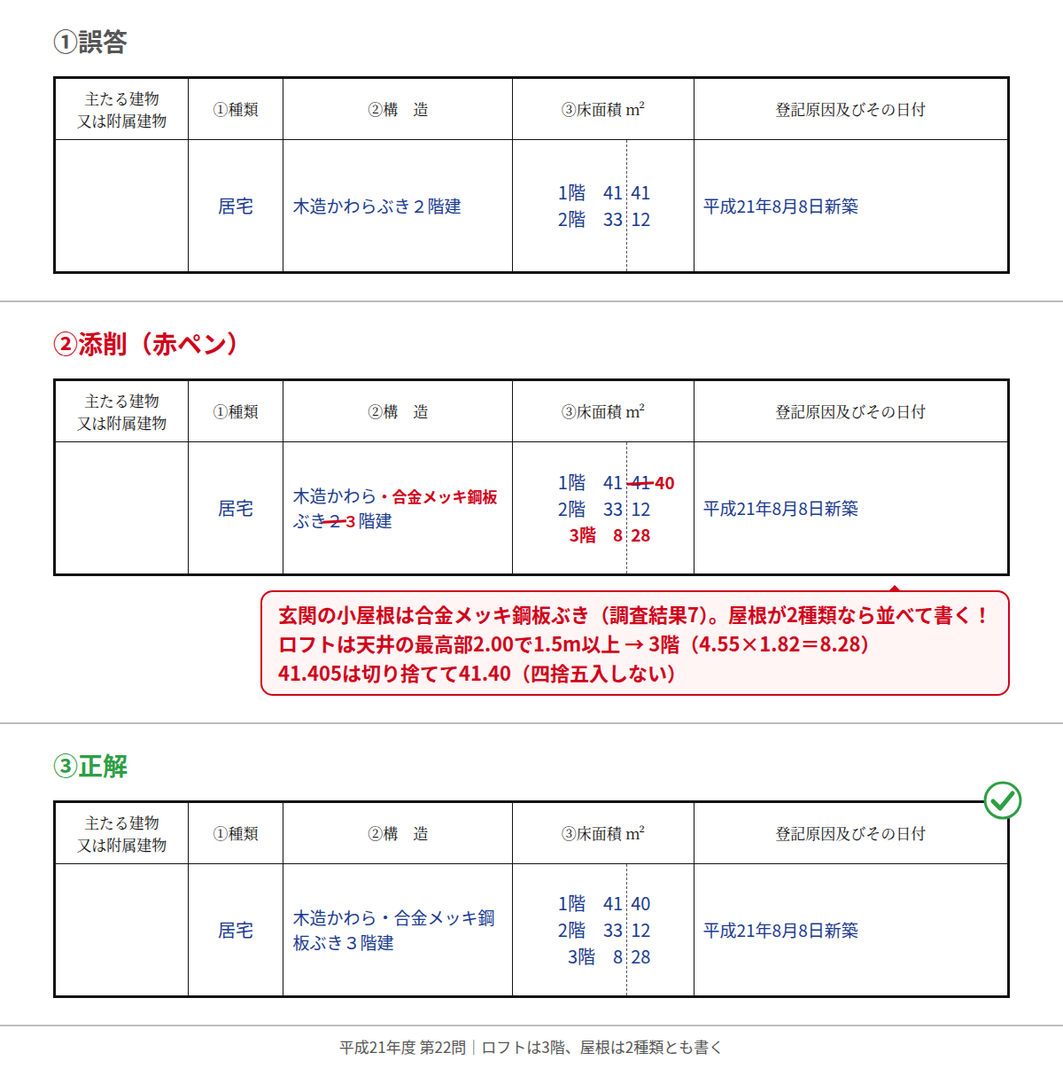
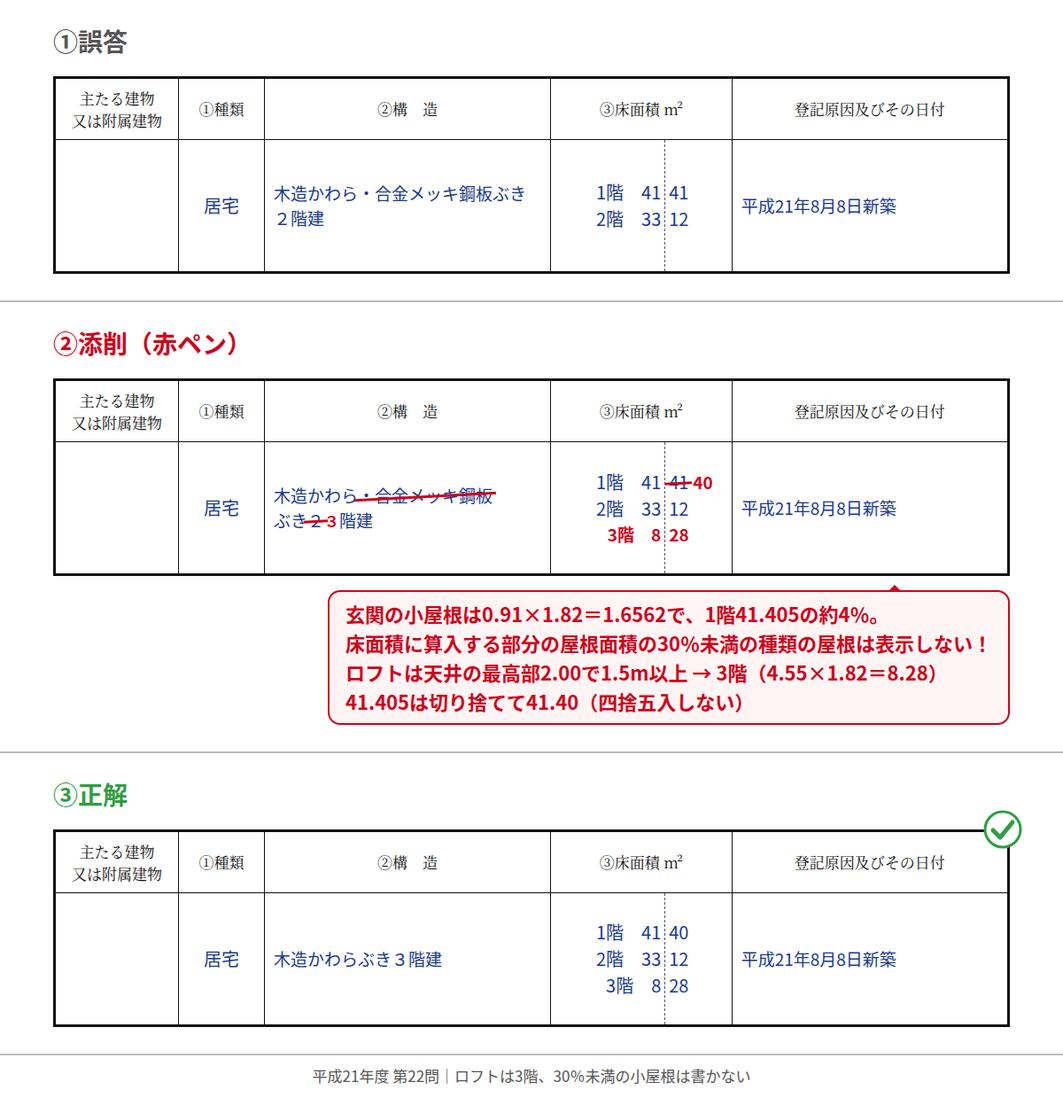
記述式 平成21年度第22問：構造を解答例どおり「木造かわらぶき3階建」に改める
- 床面積に算入する部分の屋根面積の30％未満の種類の屋根は表示しない（昭和63年3月24日民三第1826号。
  択一式の平成25年度第12問・平成29年度第16問で出題）。玄関の小屋根は約4％なので表示しない
- 記事の第4章・まとめ、申請書の完成形・添削画像・解く順番の図、各プロンプト、照合スクリプト（NG 0件）を修正
- 執筆プロンプト・チェックリスト（改善記録）・依頼文・README・CLAUDE.md を更新

Claude-Session: https://claude.ai/code/session_011EfeSfKHoPkxUKHM5aryyy

diff --git a/note-articles-Kijyutsu/H21/Q22/zu/H21_dai22mon_toukishinseisho_machigai.html b/note-articles-Kijyutsu/H21/Q22/zu/H21_dai22mon_toukishinseisho_machigai.html
@@ -42,7 +42,7 @@ table.toi2 td.h { height: 56px; font-size: 20px; }
 .ptitle { font-family: "Noto Sans CJK JP", "IPAGothic", sans-serif; font-size: 28px; font-weight: bold;
            margin-bottom: 20px; }
 .ptitle.ng { color: #555; } .ptitle.fix { color: #d0021b; } .ptitle.ok { color: #2e9e44; }
-.strike { position: relative; }
+.strike { position: relative; white-space: nowrap; }
 .strike::after { content: ""; position: absolute; left: -4px; right: -4px; top: 52%; border-top: 3px solid #d0021b;
                   transform: rotate(-3deg); }
 .red { color: #d0021b; font-family: "Noto Sans CJK JP", "IPAGothic", sans-serif; font-weight: bold; }
@@ -57,7 +57,7 @@ table.toi2 td.h { height: 56px; font-size: 20px; }
 .okwrap { position: relative; }
 .check { position: absolute; right: -14px; top: -22px; }
 </style></head><body>
-<div class="panel"><div class="ptitle ng">①誤答</div><div class="okwrap"><table class="bldg"><colgroup><col style="width:14%"><col style="width:10%"><col style="width:24%"><col style="width:12%"><col style="width:7%"><col style="width:33%"></colgroup><tr><td class="head lab2">主たる建物<br>又は附属建物</td><td class="head">①種類</td><td class="head">②構　造</td><td class="head" colspan="2">③床面積 m²</td><td class="head">登記原因及びその日付</td></tr><tr><td class="entry lab2"></td><td class="entry center"><span class="ink">居宅</span></td><td class="entry struct"><span class="ink">木造かわらぶき２階建</span></td><td class="entry int"><span class="ink">1階　41</span><br><span class="ink">2階　33</span></td><td class="entry dec"><span class="ink">41</span><br><span class="ink">12</span></td><td class="entry genin"><span class="ink">平成21年8月8日新築</span></td></tr></table></div></div>
-<div class="panel"><div class="ptitle fix">②添削（赤ペン）</div><div class="okwrap"><table class="bldg"><colgroup><col style="width:14%"><col style="width:10%"><col style="width:24%"><col style="width:12%"><col style="width:7%"><col style="width:33%"></colgroup><tr><td class="head lab2">主たる建物<br>又は附属建物</td><td class="head">①種類</td><td class="head">②構　造</td><td class="head" colspan="2">③床面積 m²</td><td class="head">登記原因及びその日付</td></tr><tr><td class="entry lab2"></td><td class="entry center"><span class="ink">居宅</span></td><td class="entry struct"><span class="ink">木造かわら</span><span class="red">・合金メッキ鋼板</span><span class="ink">ぶき</span><span class="ink strike">２</span><span class="red">３</span><span class="ink">階建</span></td><td class="entry int"><span class="ink">1階　41</span><br><span class="ink">2階　33</span><br><span class="red">3階　8</span></td><td class="entry dec"><span class="ink strike">41</span> <span class="red">40</span><br><span class="ink">12</span><br><span class="red">28</span></td><td class="entry genin"><span class="ink">平成21年8月8日新築</span></td></tr></table></div><div class="bubrow"><span class="bubble">玄関の小屋根は合金メッキ鋼板ぶき（調査結果7）。屋根が2種類なら並べて書く！<br>ロフトは天井の最高部2.00で1.5m以上 → 3階（4.55×1.82＝8.28）<br>41.405は切り捨てて41.40（四捨五入しない）</span></div></div>
-<div class="panel"><div class="ptitle ok">③正解</div><div class="okwrap"><table class="bldg" class="good"><colgroup><col style="width:14%"><col style="width:10%"><col style="width:24%"><col style="width:12%"><col style="width:7%"><col style="width:33%"></colgroup><tr><td class="head lab2">主たる建物<br>又は附属建物</td><td class="head">①種類</td><td class="head">②構　造</td><td class="head" colspan="2">③床面積 m²</td><td class="head">登記原因及びその日付</td></tr><tr><td class="entry lab2"></td><td class="entry center"><span class="ink">居宅</span></td><td class="entry struct"><span class="ink">木造かわら・合金メッキ鋼板ぶき３階建</span></td><td class="entry int"><span class="ink">1階　41</span><br><span class="ink">2階　33</span><br><span class="ink">3階　8</span></td><td class="entry dec"><span class="ink">40</span><br><span class="ink">12</span><br><span class="ink">28</span></td><td class="entry genin"><span class="ink">平成21年8月8日新築</span></td></tr></table><svg class="check" width="44" height="44" viewBox="0 0 44 44"><circle cx="22" cy="22" r="20" fill="#fff" stroke="#2e9e44" stroke-width="3"/><path d="M11 23 L19 31 L33 14" fill="none" stroke="#2e9e44" stroke-width="5" stroke-linecap="round" stroke-linejoin="round"/></svg></div></div>
-<div class="caption" style="margin:10px 0 30px">平成21年度 第22問｜ロフトは3階、屋根は2種類とも書く</div></body></html>
+<div class="panel"><div class="ptitle ng">①誤答</div><div class="okwrap"><table class="bldg"><colgroup><col style="width:13%"><col style="width:9%"><col style="width:30%"><col style="width:12%"><col style="width:7%"><col style="width:29%"></colgroup><tr><td class="head lab2">主たる建物<br>又は附属建物</td><td class="head">①種類</td><td class="head">②構　造</td><td class="head" colspan="2">③床面積 m²</td><td class="head">登記原因及びその日付</td></tr><tr><td class="entry lab2"></td><td class="entry center"><span class="ink">居宅</span></td><td class="entry struct"><span class="ink">木造かわら・合金メッキ鋼板ぶき２階建</span></td><td class="entry int"><span class="ink">1階　41</span><br><span class="ink">2階　33</span></td><td class="entry dec"><span class="ink">41</span><br><span class="ink">12</span></td><td class="entry genin"><span class="ink">平成21年8月8日新築</span></td></tr></table></div></div>
+<div class="panel"><div class="ptitle fix">②添削（赤ペン）</div><div class="okwrap"><table class="bldg"><colgroup><col style="width:13%"><col style="width:9%"><col style="width:30%"><col style="width:12%"><col style="width:7%"><col style="width:29%"></colgroup><tr><td class="head lab2">主たる建物<br>又は附属建物</td><td class="head">①種類</td><td class="head">②構　造</td><td class="head" colspan="2">③床面積 m²</td><td class="head">登記原因及びその日付</td></tr><tr><td class="entry lab2"></td><td class="entry center"><span class="ink">居宅</span></td><td class="entry struct"><span class="ink">木造かわら</span><span class="ink strike">・合金メッキ鋼板</span><br><span class="ink">ぶき</span><span class="ink strike">２</span><span class="red">３</span><span class="ink">階建</span></td><td class="entry int"><span class="ink">1階　41</span><br><span class="ink">2階　33</span><br><span class="red">3階　8</span></td><td class="entry dec"><span class="ink strike">41</span> <span class="red">40</span><br><span class="ink">12</span><br><span class="red">28</span></td><td class="entry genin"><span class="ink">平成21年8月8日新築</span></td></tr></table></div><div class="bubrow"><span class="bubble">玄関の小屋根は0.91×1.82＝1.6562で、1階41.405の約4％。<br>床面積に算入する部分の屋根面積の30％未満の種類の屋根は表示しない！<br>ロフトは天井の最高部2.00で1.5m以上 → 3階（4.55×1.82＝8.28）<br>41.405は切り捨てて41.40（四捨五入しない）</span></div></div>
+<div class="panel"><div class="ptitle ok">③正解</div><div class="okwrap"><table class="bldg" class="good"><colgroup><col style="width:13%"><col style="width:9%"><col style="width:30%"><col style="width:12%"><col style="width:7%"><col style="width:29%"></colgroup><tr><td class="head lab2">主たる建物<br>又は附属建物</td><td class="head">①種類</td><td class="head">②構　造</td><td class="head" colspan="2">③床面積 m²</td><td class="head">登記原因及びその日付</td></tr><tr><td class="entry lab2"></td><td class="entry center"><span class="ink">居宅</span></td><td class="entry struct"><span class="ink">木造かわらぶき３階建</span></td><td class="entry int"><span class="ink">1階　41</span><br><span class="ink">2階　33</span><br><span class="ink">3階　8</span></td><td class="entry dec"><span class="ink">40</span><br><span class="ink">12</span><br><span class="ink">28</span></td><td class="entry genin"><span class="ink">平成21年8月8日新築</span></td></tr></table><svg class="check" width="44" height="44" viewBox="0 0 44 44"><circle cx="22" cy="22" r="20" fill="#fff" stroke="#2e9e44" stroke-width="3"/><path d="M11 23 L19 31 L33 14" fill="none" stroke="#2e9e44" stroke-width="5" stroke-linecap="round" stroke-linejoin="round"/></svg></div></div>
+<div class="caption" style="margin:10px 0 30px">平成21年度 第22問｜ロフトは3階、30％未満の小屋根は書かない</div></body></html>

diff --git a/note-articles-Kijyutsu/H21/Q22/zu/H21_dai22mon_toukishinseisho_kansei.html b/note-articles-Kijyutsu/H21/Q22/zu/H21_dai22mon_toukishinseisho_kansei.html
@@ -42,7 +42,7 @@ table.toi2 td.h { height: 56px; font-size: 20px; }
 .ptitle { font-family: "Noto Sans CJK JP", "IPAGothic", sans-serif; font-size: 28px; font-weight: bold;
            margin-bottom: 20px; }
 .ptitle.ng { color: #555; } .ptitle.fix { color: #d0021b; } .ptitle.ok { color: #2e9e44; }
-.strike { position: relative; }
+.strike { position: relative; white-space: nowrap; }
 .strike::after { content: ""; position: absolute; left: -4px; right: -4px; top: 52%; border-top: 3px solid #d0021b;
                   transform: rotate(-3deg); }
 .red { color: #d0021b; font-family: "Noto Sans CJK JP", "IPAGothic", sans-serif; font-weight: bold; }
@@ -64,7 +64,7 @@ table.toi2 td.h { height: 56px; font-size: 20px; }
 <div class="row"><div class="lab">申　　請　　人</div><div class="box" style="height:62px"><span class="ink">Ａ市Ｂ町二丁目３番地４　土野一郎</span></div></div>
 <div class="row"><div class="lab">代　　理　　人</div><div class="box" style="height:62px"><span class="ink">Ａ市Ｃ町五丁目６番地７　家野二郎</span></div><div class="stamp">印</div></div>
 <div class="tel">（連絡先電話番号　　略　　）</div>
-<table class="bldg"><colgroup><col style="width:5%"><col style="width:13%"><col style="width:9%"><col style="width:22%"><col style="width:12%"><col style="width:7%"><col style="width:32%"></colgroup><tr><td class="lab2 val" colspan="2">不動産番号</td><td class="val" colspan="5"></td></tr><tr><td class="vert" rowspan="8">建物の表示</td><td class="lab2" rowspan="2">所　在</td><td class="val" colspan="5"><span class="ink">Ａ市Ｂ町二丁目３番地４</span></td></tr><tr><td class="val" colspan="5"></td></tr><tr><td class="lab2 val">家屋番号</td><td class="val center" colspan="2">（記載不要）</td><td class="val" colspan="3"></td></tr><tr><td class="head lab2">主たる建物<br>又は附属建物</td><td class="head">①種類</td><td class="head">②構　造</td><td class="head" colspan="2">③床面積 m²</td><td class="head">登記原因及びその日付</td></tr><tr><td class="entry lab2"></td><td class="entry center"><span class="ink">居宅</span></td><td class="entry struct"><span class="ink">木造かわら・合金メッキ鋼板ぶき３階建</span></td><td class="entry int"><span class="ink">1階　41</span><br><span class="ink">2階　33</span><br><span class="ink">3階　8</span></td><td class="entry dec"><span class="ink">40</span><br><span class="ink">12</span><br><span class="ink">28</span></td><td class="entry genin"><span class="ink">平成21年8月8日新築</span></td></tr><tr><td class="entry lab2"></td><td class="entry center"></td><td class="entry struct"></td><td class="entry int"></td><td class="entry dec"></td><td class="entry genin"></td></tr><tr><td class="entry lab2"></td><td class="entry center"></td><td class="entry struct"></td><td class="entry int"></td><td class="entry dec"></td><td class="entry genin"></td></tr><tr><td class="wide" colspan="6"></td></tr></table>
+<table class="bldg"><colgroup><col style="width:5%"><col style="width:13%"><col style="width:9%"><col style="width:22%"><col style="width:12%"><col style="width:7%"><col style="width:32%"></colgroup><tr><td class="lab2 val" colspan="2">不動産番号</td><td class="val" colspan="5"></td></tr><tr><td class="vert" rowspan="8">建物の表示</td><td class="lab2" rowspan="2">所　在</td><td class="val" colspan="5"><span class="ink">Ａ市Ｂ町二丁目３番地４</span></td></tr><tr><td class="val" colspan="5"></td></tr><tr><td class="lab2 val">家屋番号</td><td class="val center" colspan="2">（記載不要）</td><td class="val" colspan="3"></td></tr><tr><td class="head lab2">主たる建物<br>又は附属建物</td><td class="head">①種類</td><td class="head">②構　造</td><td class="head" colspan="2">③床面積 m²</td><td class="head">登記原因及びその日付</td></tr><tr><td class="entry lab2"></td><td class="entry center"><span class="ink">居宅</span></td><td class="entry struct"><span class="ink">木造かわらぶき３階建</span></td><td class="entry int"><span class="ink">1階　41</span><br><span class="ink">2階　33</span><br><span class="ink">3階　8</span></td><td class="entry dec"><span class="ink">40</span><br><span class="ink">12</span><br><span class="ink">28</span></td><td class="entry genin"><span class="ink">平成21年8月8日新築</span></td></tr><tr><td class="entry lab2"></td><td class="entry center"></td><td class="entry struct"></td><td class="entry int"></td><td class="entry dec"></td><td class="entry genin"></td></tr><tr><td class="entry lab2"></td><td class="entry center"></td><td class="entry struct"></td><td class="entry int"></td><td class="entry dec"></td><td class="entry genin"></td></tr><tr><td class="wide" colspan="6"></td></tr></table>
 <div class="shokuin"><div class="sbox"><span class="ink">土地家屋調査士　家野二郎</span></div><div class="sin">職印</div></div>
 <div class="caption">平成21年度 土地家屋調査士試験 第22問 問1 登記申請書 解答例</div>
 </div></body></html>

diff --git a/note-articles-Kijyutsu/H21/Q22/zu/H21_dai22mon_toukishinseisho_kansei_toi2.html b/note-articles-Kijyutsu/H21/Q22/zu/H21_dai22mon_toukishinseisho_kansei_toi2.html
@@ -42,7 +42,7 @@ table.toi2 td.h { height: 56px; font-size: 20px; }
 .ptitle { font-family: "Noto Sans CJK JP", "IPAGothic", sans-serif; font-size: 28px; font-weight: bold;
            margin-bottom: 20px; }
 .ptitle.ng { color: #555; } .ptitle.fix { color: #d0021b; } .ptitle.ok { color: #2e9e44; }
-.strike { position: relative; }
+.strike { position: relative; white-space: nowrap; }
 .strike::after { content: ""; position: absolute; left: -4px; right: -4px; top: 52%; border-top: 3px solid #d0021b;
                   transform: rotate(-3deg); }
 .red { color: #d0021b; font-family: "Noto Sans CJK JP", "IPAGothic", sans-serif; font-weight: bold; }

diff --git a/note-articles-Kijyutsu/H21/Q22/verify_H21_dai22mon.py b/note-articles-Kijyutsu/H21/Q22/verify_H21_dai22mon.py
@@ -2,8 +2,9 @@
 アガルートの解答例（第22問 解答例：問1の登記申請書・問2・問3の各階平面図と建物図面）と照合した。
 アガルートの過去問集の再掲は日付を平成30年に置き換え、答案用紙の見出しを「主である建物」に変えていた（下の対応表）ので、
 日付と欄の名前は試験問題の本文と試験の答案用紙に合わせている。
-食い違いは構造の1か所だけ（アガルート「木造かわらぶき3階建」、記事「木造かわら・合金メッキ鋼板ぶき3階建」。
-不動産登記事務取扱手続準則第81条第2項と調査結果7の材質の指定による。下の「解答例との食い違い」）。
+構造は、ユーザーの指示（2026-09-30）で解答例どおり「木造かわらぶき3階建」とした（床面積に算入する部分の屋根面積の
+30％未満の種類の屋根は表示しない。昭和63年3月24日民三第1826号。択一式の平成25年度第12問・平成29年度第16問で出題）。
+解答例との食い違いはない。
 実行: python3 note-articles-Kijyutsu/H21/Q22/verify_H21_dai22mon.py"""
 import math
 import os
@@ -67,7 +68,7 @@ AGAROOT = {
     '代理人': '代理人は『A市C町五丁目6番地7　家野二郎』',
     '所在': '所在は『A市B町二丁目3番地4』',
     '家屋番号': '家屋番号は『（記載不要）』と印刷済み',
-    '種類・床面積': '種類『居宅』、構造『木造かわら・合金メッキ鋼板ぶき3階建』、床面積は『1階　41.40』『2階　33.12』『3階　8.28』',
+    '種類・床面積': '種類『居宅』、構造『木造かわらぶき3階建』、床面積は『1階　41.40』『2階　33.12』『3階　8.28』',
     '原因': '『平成21年8月8日新築』です',
     '欄外': '『土地家屋調査士　家野二郎』と書きます',
     '問2 確認済証': '- 建築基準法第6条の確認があったことを証する書面（確認済証）',
@@ -85,13 +86,19 @@ AGAROOT = {
 }
 for k, s_ in AGAROOT.items():
     check('解答例と一致：' + k, s_)
-# 解答例との食い違い（構造）：アガルートは「木造かわらぶき3階建」（床面積に算入する部分の屋根面積の30%未満の屋根は表示しないという説明）。
-# 記事は準則第81条第2項（屋根の種類が異なる場合は並べて表示）と調査結果7の材質の指定（合金メッキ鋼板＝準則第81条第1項の区分）により
-# 「木造かわら・合金メッキ鋼板ぶき3階建」を採用。記事では予備校の答えを誤りと断定しない。
-check('構造（記事の採用）', '大屋根が先で、『木造かわら・合金メッキ鋼板ぶき3階建』です')
-check('構造の根拠（準則81条2項）', '（準則第81条第2項）')
-check('構造の根拠（準則81条1項の合金メッキ鋼板ぶき）', '準則第81条第1項が区分を足していて、その中に『合金メッキ鋼板ぶき』がある')
-check('小さい屋根を省く答え方への言及（断定しない）', '小さい屋根は構造に書かないで済ませる答え方を見かけることもあるけど')
+# 構造：屋根の種類が2種類以上ある建物は、床面積に算入する部分の屋根面積の30％未満の種類の屋根を表示しない
+# （昭和63年3月24日民三第1826号。択一式の H25/Q12・H29/Q16 で出題）。玄関の小屋根は約4％なので「木造かわらぶき3階建」（解答例と一致）。
+check('構造（解答例と一致）', '構造は『木造かわらぶき3階建』です」')
+check('30％の先例', '30％未満の種類の屋根は構造に表示しないの（昭和63年3月24日民三第1826号）')
+check('択一式の出題', '平成25年度第12問（基準は10％ではなく30％）と平成29年度第16問（65％と35％なら両方書く）')
+check('小屋根の割合', '1.6562 ÷ 41.405 で約4％')
+ratio = 0.91 * 1.82 / (6.37 * 1.82 + 5.46 * 5.46)
+truth(f'玄関の小屋根の割合 {ratio:.4f}（約4％、30％未満）', round(ratio * 100) == 4 and ratio < 0.30)
+absent('旧版の説明（小さい屋根を省く答え方を否定）', '小さい屋根は構造に書かないで済ませる')
+absent('旧版の構造', '大屋根が先で、『木造かわら・合金メッキ鋼板ぶき3階建』です')
+check('並べて書く誤答（藍子）', '構造は『木造かわら・合金メッキ鋼板ぶき3階建』です！')
+check('区分名（準則81条1項）', '準則第81条第1項の区分にある『合金メッキ鋼板ぶき』ですね')
+check('並べて書く規定（準則81条2項）', '（準則第81条第2項）')
 truth('「アガルート」は冒頭の照合済みの一文だけ', text.count('アガルート') == 1)
 absent('予備校の誤りの断定', '予備校')
 
@@ -143,8 +150,7 @@ truth('東の端（4.55）も1.20', round(2.00 - slope * (4.55 - 2.73), 2) == 1.
 
 # ---- 構造・問1 ----
 check('通し柱から木造', '平面図に通し柱の記号が並んでいるから、構造は木造と判断できるわ')
-check('屋根1種類の誤答（藍子）', '構造は『木造かわらぶき3階建』です！')
-check('亜鉛メッキ鋼板との対比', '規則第114条の『亜鉛メッキ鋼板ぶき』ですか？')
+check('亜鉛メッキ鋼板との対比', '規則第114条の『亜鉛メッキ鋼板ぶき』……じゃなくて')
 check('添付の根拠', '（不動産登記令別表12の項添付情報欄イ〜ニ）')
 check('代理権限', '（同令第7条第1項第2号）')
 check('登録免許税', '建物の表題登記はそこに載っていないので、納めなくていいんです')
@@ -162,13 +168,13 @@ check('1階の位置の点線', '（準則第53条）')
 for s_ in ['**登記の目的**：建物表題登記', '**添付書類**：建物図面　各階平面図　所有権証明書　住所証明書　代理権限証書',
            '**申請人**：Ａ市Ｂ町二丁目３番地４　土野一郎', '**代理人**：Ａ市Ｃ町五丁目６番地７　家野二郎',
            '平成21年8月23日　申請　Ｄ地方法務局Ｂ出張所', '1段目「Ａ市Ｂ町二丁目３番地４」',
-           '②構造「木造かわら・合金メッキ鋼板ぶき３階建」', '③床面積「1階　41｜40」「2階　33｜12」「3階　8｜28」',
+           '②構造「木造かわらぶき３階建」', '③床面積「1階　41｜40」「2階　33｜12」「3階　8｜28」',
            '登記原因及びその日付「平成21年8月8日新築」', '**表の下の枠**：土地家屋調査士　家野二郎',
            '**登録免許税**：欄がないので書かない', '3. 株式会社建倉工務店が作成した工事完了引渡証明書（同社の印鑑証明書付き）']:
     check('申請書の記入データ', s_, form, '申請書')
-check('誤答', '②構造：「木造かわらぶき２階建」', fix, '添削')
+check('誤答', '②構造：「木造かわら・合金メッキ鋼板ぶき２階建」', fix, '添削')
 check('誤答', '「1階　41｜41」', fix, '添削')
-check('正解', '②構造「木造かわら・合金メッキ鋼板ぶき３階建」／③床面積「1階　41｜40」「2階　33｜12」「3階　8｜28」', fix, '添削')
+check('正解', '②構造「木造かわらぶき３階建」／③床面積「1階　41｜40」「2階　33｜12」「3階　8｜28」', fix, '添削')
 check('縦に積む', '横1200pxの縦長の1枚の画像に、上から「①誤答」「②添削（赤ペン）」「③正解」の3コマ', fix, '添削')
 
 # ---- 解説図プロンプトの頂点座標（面積が求積表と一致すること） ----
@@ -274,14 +280,14 @@ def html_has(name, *needles, bad=()):
 html_has('H21_dai22mon_toukishinseisho_kansei', '建物表題登記', '建物図面　各階平面図　所有権証明書　住所証明書　代理権限証書',
          '平成21年8月23日', 'Ｄ地方法務局Ｂ出張所', 'Ａ市Ｂ町二丁目３番地４　土野一郎', 'Ａ市Ｃ町五丁目６番地７　家野二郎',
          '（連絡先電話番号', '不動産番号', '建物の表示', '（記載不要）', '主たる建物<br>又は附属建物', '居宅',
-         '木造かわら・合金メッキ鋼板ぶき３階建', '1階　41', '>40<', '2階　33', '>12<', '3階　8', '>28<', '平成21年8月8日新築',
+         '木造かわらぶき３階建', '1階　41', '>40<', '2階　33', '>12<', '3階　8', '>28<', '平成21年8月8日新築',
          '土地家屋調査士　家野二郎', '職印',
-         bad=('登録免許税', '平成30年', '主である建物', '>41<', '会社法人等番号', '（略）'))
+         bad=('登録免許税', '平成30年', '主である建物', '>41<', '会社法人等番号', '（略）', '合金メッキ鋼板'))
 html_has('H21_dai22mon_toukishinseisho_kansei_toi2', '所有権を有することを証する情報として添付する具体的書面（情報）の例',
          '建築基準法第6条の確認があったことを証する書面（確認済証）', '建築基準法第7条の検査があったことを証する書面（検査済証）',
          '株式会社建倉工務店が作成した工事完了引渡証明書（同社の印鑑証明書付き）', bad=('丸田電気', '中山設備', '建倉進'))
-html_has('H21_dai22mon_toukishinseisho_machigai', '①誤答', '②添削（赤ペン）', '③正解', '木造かわらぶき２階建', '・合金メッキ鋼板',
-         '3階　8', '41.405は切り捨てて41.40')
+html_has('H21_dai22mon_toukishinseisho_machigai', '①誤答', '②添削（赤ペン）', '③正解', '木造かわら・合金メッキ鋼板ぶき２階建', '・合金メッキ鋼板</span>',
+         '3階　8', '41.405は切り捨てて41.40', '30％未満の種類の屋根は表示しない', '木造かわらぶき３階建')
 drw = open(os.path.join(ZU, 'draw_H21_dai22mon_kaisetsuzu.py'), encoding='utf-8').read()
 fits = []
 for m in re.finditer(r'\bfit\(', drw):

diff --git a/note-articles-Kijyutsu/H21/Q22/zu/make_H21_dai22mon_shinseisho_gazou.py b/note-articles-Kijyutsu/H21/Q22/zu/make_H21_dai22mon_shinseisho_gazou.py
@@ -67,7 +67,7 @@ table.toi2 td.h {{ height: 56px; font-size: 20px; }}
 .ptitle {{ font-family: "Noto Sans CJK JP", "IPAGothic", sans-serif; font-size: 28px; font-weight: bold;
            margin-bottom: 20px; }}
 .ptitle.ng {{ color: #555; }} .ptitle.fix {{ color: {RED}; }} .ptitle.ok {{ color: {GREEN}; }}
-.strike {{ position: relative; }}
+.strike {{ position: relative; white-space: nowrap; }}
 .strike::after {{ content: ""; position: absolute; left: -4px; right: -4px; top: 52%; border-top: 3px solid {RED};
                   transform: rotate(-3deg); }}
 .red {{ color: {RED}; font-family: "Noto Sans CJK JP", "IPAGothic", sans-serif; font-weight: bold; }}
@@ -93,8 +93,8 @@ COLS = ('<colgroup><col style="width:5%"><col style="width:13%"><col style="widt
 HEAD = ('<td class="head lab2">主たる建物<br>又は附属建物</td><td class="head">①種類</td>'
         '<td class="head">②構　造</td><td class="head" colspan="2">③床面積 m²</td>'
         '<td class="head">登記原因及びその日付</td>')
-COLS_SNIP = ('<colgroup><col style="width:14%"><col style="width:10%"><col style="width:24%">'
-             '<col style="width:12%"><col style="width:7%"><col style="width:33%"></colgroup>')
+COLS_SNIP = ('<colgroup><col style="width:13%"><col style="width:9%"><col style="width:30%">'
+             '<col style="width:12%"><col style="width:7%"><col style="width:29%"></colgroup>')
 
 
 def ink(s):
@@ -121,7 +121,7 @@ def entry_cells(label, kind, struct, floors, genin):
 
 
 SHOZAI = 'Ａ市Ｂ町二丁目３番地４'
-KOUZOU = '木造かわら・合金メッキ鋼板ぶき３階建'
+KOUZOU = '木造かわらぶき３階建'
 FLOORS = [('1階', '41', '40'), ('2階', '33', '12'), ('3階', '8', '28')]
 GENIN = '平成21年8月8日新築'
 
@@ -167,16 +167,18 @@ def snippet(cells, good=False):
     return f'<div class="okwrap"><table class="bldg"{g}>{COLS_SNIP}<tr>{head}</tr><tr>{cells}</tr></table>{chk}</div>'
 
 
-ng_panel = snippet(entry_cells('', ink('居宅'), ink('木造かわらぶき２階建'), [('1階', '41', '41'), ('2階', '33', '12')], ink(GENIN)))
+ng_panel = snippet(entry_cells('', ink('居宅'), ink('木造かわら・合金メッキ鋼板ぶき２階建'), [('1階', '41', '41'), ('2階', '33', '12')],
+                               ink(GENIN)))
 fix_cells = ('<td class="entry lab2"></td>'
              f'<td class="entry center">{ink("居宅")}</td>'
-             f'<td class="entry struct">{ink("木造かわら")}<span class="red">・合金メッキ鋼板</span>{ink("ぶき")}'
+             f'<td class="entry struct">{ink("木造かわら")}<span class="ink strike">・合金メッキ鋼板</span><br>{ink("ぶき")}'
              f'<span class="ink strike">２</span><span class="red">３</span>{ink("階建")}</td>'
              f'<td class="entry int">{ink("1階　41")}<br>{ink("2階　33")}<br><span class="red">3階　8</span></td>'
              f'<td class="entry dec"><span class="ink strike">41</span> <span class="red">40</span><br>{ink("12")}<br>'
              f'<span class="red">28</span></td>'
              f'<td class="entry genin">{ink(GENIN)}</td>')
-fix_panel = snippet(fix_cells) + ('<div class="bubrow"><span class="bubble">玄関の小屋根は合金メッキ鋼板ぶき（調査結果7）。屋根が2種類なら並べて書く！<br>'
+fix_panel = snippet(fix_cells) + ('<div class="bubrow"><span class="bubble">玄関の小屋根は0.91×1.82＝1.6562で、1階41.405の約4％。<br>'
+                                  '床面積に算入する部分の屋根面積の30％未満の種類の屋根は表示しない！<br>'
                                   'ロフトは天井の最高部2.00で1.5m以上 → 3階（4.55×1.82＝8.28）<br>'
                                   '41.405は切り捨てて41.40（四捨五入しない）</span></div>')
 ok_panel = snippet(entry_cells('', ink('居宅'), ink(KOUZOU), FLOORS, ink(GENIN)), good=True)
@@ -184,7 +186,7 @@ machigai = page(f'''
 <div class="panel"><div class="ptitle ng">①誤答</div>{ng_panel}</div>
 <div class="panel"><div class="ptitle fix">②添削（赤ペン）</div>{fix_panel}</div>
 <div class="panel"><div class="ptitle ok">③正解</div>{ok_panel}</div>
-<div class="caption" style="margin:10px 0 30px">平成21年度 第22問｜ロフトは3階、屋根は2種類とも書く</div>''')
+<div class="caption" style="margin:10px 0 30px">平成21年度 第22問｜ロフトは3階、30％未満の小屋根は書かない</div>''')
 
 if __name__ == '__main__':
     exe = sorted(glob.glob('/opt/pw-browsers/chromium-*/chrome-linux/chrome'))

diff --git a/note-articles-Kijyutsu/H21/Q22/zu/draw_H21_dai22mon_kaisetsuzu.py b/note-articles-Kijyutsu/H21/Q22/zu/draw_H21_dai22mon_kaisetsuzu.py
@@ -359,11 +359,11 @@ def zu08():
     ax.axis('off')
     steps = [
         ('①', '問を先に読む', '問1〜問3と\n問題文の注', BLUE),
-        ('②', '調査結果と\n断面図のメモ', 'ロフト2.00・吹抜\n屋根2種類・通し柱\n後退線', BLUE),
+        ('②', '調査結果と\n断面図のメモ', 'ロフト2.00・吹抜\n小屋根の割合・通し柱\n後退線', BLUE),
         ('③', '申請書の\n床面積以外\nと問2', '目的・添付書類\n申請人・原因の日付\n確認済証など', BLUE),
         ('④', '床面積3つ\nと階数', '41.40（切捨て）\n33.12・8.28\n3階建', GREEN),
         ('⑤', '各階平面図と\n建物図面', '（その2）\n3.10・1.00', RED),
-        ('⑥', '見直し', '41.41にして\nいないか・\n合金メッキ鋼板', GRAY),
+        ('⑥', '見直し', '41.41にして\nいないか・\n30％未満の小屋根', GRAY),
     ]
     w, h, gap = 14.5, 42, 2.0
     for i, (no, t, ran, col) in enumerate(steps):

diff --git a/note-articles-Kijyutsu/H21/Q22/note_H21_dai22mon_tatemono_kaisetsu.md b/note-articles-Kijyutsu/H21/Q22/note_H21_dai22mon_tatemono_kaisetsu.md
@@ -238,27 +238,27 @@
 「申請書よ。まず建物の表示の構造から。材料は第1章で決めたわね」
 
 **藍子**  
-「通し柱の記号があるので木造。屋根は洋かわらぶきだから『かわらぶき』（不動産登記規則第114条）。階数は3階建。構造は『木造かわらぶき3階建』です！」
+「通し柱の記号があるので木造、階数は3階建。屋根は、大屋根が洋かわらぶきなので『かわらぶき』（不動産登記規則第114条）。それと玄関の小屋根がガルバリウム板ぶきで、問題文に『材質はいわゆる合金メッキ鋼板』とあります。ガルバリウムは亜鉛のメッキをした鋼板だから、規則第114条の『亜鉛メッキ鋼板ぶき』……じゃなくて、準則第81条第1項の区分にある『合金メッキ鋼板ぶき』ですね。屋根の種類が違うときは『かわら・亜鉛メッキ鋼板ぶき』のように並べて書く（準則第81条第2項）から、構造は『木造かわら・合金メッキ鋼板ぶき3階建』です！」
 
 **トリ先生**  
-「調査結果7の後半が抜けているわ。玄関の小屋根は？」
+「材質の読み方は合格。商品名のまま書かず、亜鉛メッキ鋼板にも言い換えない。でも最後で引っかかったわね。屋根の種類が2つあったら、いつでも並べて書くと思った？」
 
 **藍子**  
-「ガルバリウム板ぶき……。ガルバリウムって、亜鉛のメッキをした鋼板ですよね。規則第114条の『亜鉛メッキ鋼板ぶき』ですか？」
+「違うんですか？」
 
 **トリ先生**  
-「問題文をよく読みなさい。『ガルバリウム板の材質はいわゆる合金メッキ鋼板である』と書いてあるでしょう。規則第114条の屋根の区分はかわらぶき・スレートぶき・亜鉛メッキ鋼板ぶき・草ぶき・陸屋根。そこにない屋根は、準則第81条第1項が区分を足していて、その中に『合金メッキ鋼板ぶき』がある。亜鉛メッキ鋼板とは別の区分なの」
+「屋根の種類が2種類以上ある建物は、床面積に算入する部分の屋根面積のうち、30％未満の種類の屋根は構造に表示しないの（昭和63年3月24日民三第1826号）。並べて書くのは、どちらの種類も30％以上ある場合よ。択一式でも、平成25年度第12問（基準は10％ではなく30％）と平成29年度第16問（65％と35％なら両方書く）で出ているわ。じゃあ、玄関の小屋根はどれくらい？」
 
 **藍子**  
-「商品名の『ガルバリウム』のまま書くのも、亜鉛メッキ鋼板に言い換えるのもダメで、問題文が教えてくれた『合金メッキ鋼板ぶき』……。でも、玄関の上の小さな屋根まで構造に書くんですか？」
+「小屋根がかかっているのは、北東の角の玄関の張り出しの0.91×1.82＝1.6562です。1階の41.405と比べると、1.6562 ÷ 41.405 で約4％。30％にまったく届きません。だから合金メッキ鋼板ぶきは表示しなくて、構造は『木造かわらぶき3階建』です」
 
 **トリ先生**  
-「屋根の種類が違う部分があるときは、例えば『かわら・亜鉛メッキ鋼板ぶき』のように並べて書く（準則第81条第2項）。玄関の小屋根は、1階の床面積に入れた玄関の張り出しの上の屋根で、建物そのものの屋根よ。小さい屋根は構造に書かないで済ませる答え方を見かけることもあるけど、条文で確かめられる決まりは面積で省くとは言っていないし、問題文がわざわざ材質まで教えているの。試験では両方書きなさい」
+「そう。問題文がガルバリウムの材質までていねいに教えているのは、並べて書かせるためのわなよ。もし玄関の屋根が、床面積に算入する部分の屋根面積の30％以上あったら、そのときは準則第81条第1項の区分名を使って『木造かわら・合金メッキ鋼板ぶき』と並べる。区分名の知識と、30％の基準の両方を持っておきなさい」
 
 **藍子**  
-「大屋根が先で、『木造かわら・合金メッキ鋼板ぶき3階建』です」
+「屋根の種類ごとの割合を先に確かめる、ですね。構造は『木造かわらぶき3階建』で決まりです！」
 
-> 【画像挿入】登記申請書の建物の表示の行の①誤答（構造「木造かわらぶき2階建」、床面積1階41.41・2階33.12で3階なし）→②赤ペンでの添削（玄関の小屋根の「合金メッキ鋼板」を加え3階建に直す、41.41は切り捨てて41.40、ロフトの3階8.28を加える、という指摘）→③正解（木造かわら・合金メッキ鋼板ぶき3階建、1階41.40・2階33.12・3階8.28）の3コマ添削画像
+> 【画像挿入】登記申請書の建物の表示の行の①誤答（構造「木造かわら・合金メッキ鋼板ぶき2階建」、床面積1階41.41・2階33.12で3階なし）→②赤ペンでの添削（玄関の小屋根は屋根面積の約4％で30％未満なので表示しない、ロフトで3階建、41.41は切り捨てて41.40、3階8.28を加える、という指摘）→③正解（木造かわらぶき3階建、1階41.40・2階33.12・3階8.28）の3コマ添削画像
 
 **トリ先生**  
 「じゃあ、答案用紙の上から順に埋めなさい」
@@ -282,7 +282,7 @@
 「建物の表示の欄。上から」
 
 **藍子**  
-「不動産番号は、まだ登記されていない建物なので空欄。所在は『A市B町二丁目3番地4』。家屋番号は『（記載不要）』と印刷済み。表の1行目は、附属建物がないので『主たる建物又は附属建物』の欄は空けて、種類『居宅』、構造『木造かわら・合金メッキ鋼板ぶき3階建』、床面積は『1階　41.40』『2階　33.12』『3階　8.28』。登記原因及びその日付は、工事完了の日で『平成21年8月8日新築』です」
+「不動産番号は、まだ登記されていない建物なので空欄。所在は『A市B町二丁目3番地4』。家屋番号は『（記載不要）』と印刷済み。表の1行目は、附属建物がないので『主たる建物又は附属建物』の欄は空けて、種類『居宅』、構造『木造かわらぶき3階建』、床面積は『1階　41.40』『2階　33.12』『3階　8.28』。登記原因及びその日付は、工事完了の日で『平成21年8月8日新築』です」
 
 **トリ先生**  
 「原因の日付、依頼の8月10日や申請の8月23日にしていないわね。新築の表題登記だから、欄番号も付けない。もう1つ、答案用紙の表の下に『職印』と印刷された枠があるわ」
@@ -290,7 +290,7 @@
 **藍子**  
 「調査士が官庁に出す書類を作ったら、書類の末尾か欄外に記名して職印を押す（土地家屋調査士法施行規則第26条第1項）。だから『土地家屋調査士　家野二郎』と書きます」
 
-> 【画像挿入】問1の完成した登記申請書。登記の目的・添付書類（建物図面　各階平面図　所有権証明書　住所証明書　代理権限証書）・申請人・代理人・所在（A市B町二丁目3番地4）、家屋番号（記載不要）、居宅・木造かわら・合金メッキ鋼板ぶき3階建・1階41.40・2階33.12・3階8.28・平成21年8月8日新築と、欄外の「土地家屋調査士　家野二郎」が記入された状態
+> 【画像挿入】問1の完成した登記申請書。登記の目的・添付書類（建物図面　各階平面図　所有権証明書　住所証明書　代理権限証書）・申請人・代理人・所在（A市B町二丁目3番地4）、家屋番号（記載不要）、居宅・木造かわらぶき3階建・1階41.40・2階33.12・3階8.28・平成21年8月8日新築と、欄外の「土地家屋調査士　家野二郎」が記入された状態
 
 ---
 
@@ -347,17 +347,17 @@
 > 【画像挿入】各階平面図の完成形（縮尺250分の1）。1階（6.37・1.82・0.91・5.46・5.46・7.28）、2階（4.55・1.82・0.91・4.55・5.46・6.37、1階の位置を点線）、3階（4.55×1.82、1階の位置を点線）の3つを並べ、各階の求積と床面積（41.40・33.12・8.28）を添えた図
 
 **トリ先生**  
-「今日のまとめよ。この問題の最大のわなは、名前が『ロフト』の屋階。天井の最高部が2.00あって1.5メートル以上だから特殊階じゃなく、3階に数えて、押入まで入れた4.55×1.82＝8.28。1階は41.405を切り捨てて41.40。2階は吹抜とベランダを除いて33.12。構造は、通し柱から木造、玄関の小屋根まで拾って『木造かわら・合金メッキ鋼板ぶき3階建』。建物図面は、道路後退線じゃなく道路境界線から3.10」
+「今日のまとめよ。この問題の最大のわなは、名前が『ロフト』の屋階。天井の最高部が2.00あって1.5メートル以上だから特殊階じゃなく、3階に数えて、押入まで入れた4.55×1.82＝8.28。1階は41.405を切り捨てて41.40。2階は吹抜とベランダを除いて33.12。構造は、通し柱から木造、玄関の小屋根は屋根面積の約4％で30％未満だから表示せず『木造かわらぶき3階建』。建物図面は、道路後退線じゃなく道路境界線から3.10」
 
 **藍子**  
 「本番ではどの順番で解けばいいですか？」
 
 **トリ先生**  
-「計算は長方形5つだけ。時間を食うのは作図と、階数の判断よ。①問を先に読む → ②調査結果と断面図のメモ（ロフトの天井2.00、吹抜、屋根2種類、通し柱、後退線）→ ③申請書の床面積以外（登記の目的、添付書類、申請人、代理人、所在、種類、原因の日付、欄外の職名・氏名は計算なしで書ける）と問2 → ④床面積3つ（41.40・33.12・8.28）と構造の階数 → ⑤答案用紙（その2）の各階平面図と建物図面（3.10と1.00） → ⑥見直し（41.41にしていないか、3階を落としていないか、合金メッキ鋼板を落としていないか）。ロフトを階に数えるかどうかは構造にも床面積にも各階平面図にも響くから、②で決めてから先へ進むこと」
+「計算は長方形5つだけ。時間を食うのは作図と、階数の判断よ。①問を先に読む → ②調査結果と断面図のメモ（ロフトの天井2.00、吹抜、屋根2種類、通し柱、後退線）→ ③申請書の床面積以外（登記の目的、添付書類、申請人、代理人、所在、種類、原因の日付、欄外の職名・氏名は計算なしで書ける）と問2 → ④床面積3つ（41.40・33.12・8.28）と構造の階数 → ⑤答案用紙（その2）の各階平面図と建物図面（3.10と1.00） → ⑥見直し（41.41にしていないか、3階を落としていないか、30％未満の小屋根を並べて書いていないか）。ロフトを階に数えるかどうかは構造にも床面積にも各階平面図にも響くから、②で決めてから先へ進むこと」
 
 > 【画像挿入】本番で解く順番の図。①問を先に読む → ②調査結果と断面図のメモ → ③申請書の床面積以外と問2までが「計算しなくても書ける」、④床面積3つと階数 → ⑤各階平面図と建物図面が「時間を食う」、最後に⑥見直し
 
 **藍子**  
-「はい、先生！　ロフトでも天井が1.5メートル以上なら階に数える、床面積は切り捨て、吹抜とベランダは入れない、屋根は2種類とも書く、距離は筆界から。絶対に忘れません！」
+「はい、先生！　ロフトでも天井が1.5メートル以上なら階に数える、床面積は切り捨て、吹抜とベランダは入れない、30％未満の屋根は構造に書かない、距離は筆界から。絶対に忘れません！」
 
 ---

diff --git a/note-articles-Kijyutsu/qa-checklist-kijutsu.md b/note-articles-Kijyutsu/qa-checklist-kijutsu.md
@@ -342,7 +342,7 @@
 - **傾いた敷地と方位（2026-09-30追加、H22/Q22）**：座標の軸に対して傾いた長方形を、Conjgの積の実部（直角）で確かめたか。解説図の向きと方位記号が答案用紙と同じか。記事の方位を方位記号から（北北西など）書いているか
 - **古い建物図面の距離の食い違い（2026-09-30追加、H22/Q22）**：元の建物図面の距離を両側から足して敷地の幅と合うか確かめ、合わない側の距離を建物図面に書いていないか
 - **天井の高いロフト（2026-09-30追加、H21/Q22）**：「ロフト」「小屋裏」を名前だけで階数・床面積から外していないか。断面図の天井の最高部が1.5メートル以上なら特殊階ではなく階に数える（準則第81条第4項・第82条第1号）。押入など天井の低い部分も、1室の一部なら算入しているか（同号ただし書）
-- **屋根が2種類・構成材料の判断（2026-09-30追加、H21/Q22）**：玄関の小屋根などの別の屋根を構造に並べて書いているか（準則第81条第2項）。区分の名前は規則第114条・準則第81条第1項の文言か（ガルバリウム→合金メッキ鋼板ぶき。亜鉛メッキ鋼板ぶきと取り違えていないか）。材料が書かれていない年度で、通し柱などの記号から判断した理由を示しているか
+- **屋根が2種類・構成材料の判断（2026-09-30追加、H21/Q22。同日ユーザー指示で改訂）**：屋根の種類ごとに、床面積に算入する部分の屋根面積に対する割合を確かめたか。30％未満の種類の屋根を構造に並べて書いていないか（昭和63年3月24日民三第1826号。択一式の平成25年度第12問・平成29年度第16問）。並べて書くとき（どの種類も30％以上）の区分名は規則第114条・準則第81条第1項の文言か（ガルバリウム→合金メッキ鋼板ぶき。亜鉛メッキ鋼板ぶきと取り違えていないか）。材料が書かれていない年度で、通し柱などの記号から判断した理由を示しているか
 - **道路後退線（2026-09-30追加、H21/Q22）**：建物図面の距離を、分筆していない道路後退線からではなく筆界（道路境界線）から測っているか
 - **答案用紙の空欄（2026-09-30追加、H21/Q22）**：代理人の欄・表の下の職印の枠・各階平面図の作成者欄・建物図面の申請人欄が（略）でなければ記入しているか。表の見出し（「主たる建物」か「主である建物」か）が試験の答案用紙どおりか
 
@@ -482,10 +482,17 @@
 - 作図：13枚（全体図・結合トラバース・コンパスの法則・B点・E点・F点・面積・公差・相続関係図・代位の関係図・分筆前後の地番・地積測量図・解く順番）。閉合誤差（約3cm）やB点の丸めの差（数mm）は全体の縮尺で見えないので、図2〜図4を「全体」と「拡大」の2パネルにし、B点の拡大には四捨五入の境目（Y ＝ 6.365・6.375）を破線で入れた。図5で背景の5番を全部描くと下が切れたので、A→B・D→Cの北の端だけを描いた（基本フォームの「fitに入れない区画は描かない」のとおり）。相続関係図（固定配置）は、最初の配置で箱が重なったので、二郎を美子との子、三郎・四郎・五郎を弘子との子として別の線で下ろす形に描き直した（固定配置の図は自動検査の対象外なので目視で確かめた）
 - 照合スクリプト `verify_H20_dai21mon_kaiwa.py`：NG 0件。lint：表記ルール違反なし
 
+**2026-09-30　H21 Q22（建物）構造の屋根の書き方をユーザー指示で解答例どおりに改めた**
+
+- 指示：アガルートの「木造かわらぶき3階建」（玄関の小屋根を「屋根面積の30％未満の屋根は書かない」として省く）は条文か先例で定められており、択一式でも出題があった。30％未満の屋根は書かない扱いを採用する
+- 確認：択一式の記事 `note-articles/h25-mondai/q12-tatemono-shurui-kouzou.md`（平成25年度第12問ア：基準は10％ではなく30％）と `note-articles/h29-mondai/q16-tatemono-kouzou.md`（平成29年度第16問イ：65％と35％なら両方表示）が、昭和63年3月24日民三第1826号（床面積に算入する部分の屋根面積の30％未満の種類の屋根は表示しない、床面積に算入しない部分の屋根は対象外、3種類以上なら平均以上）を根拠に解説済みだった
+- 反映：記事の第4章を、藍子が「2種類あるから並べる（木造かわら・合金メッキ鋼板ぶき3階建）」と答え、トリ先生が先例と択一式の出題を示し、玄関の小屋根の割合（0.91×1.82＝1.6562 ÷ 41.405 ≒ 4％）を確かめて「木造かわらぶき3階建」に直す流れに書き直した（まとめ・解く順番・締めのセリフも）。申請書の完成形・添削画像・図8と各プロンプト、照合スクリプト（解答例との食い違いなし）を直した。執筆プロンプトの「屋根が2種類」の項と本指示書3-2を改めた
+- 原因と教訓：`note-articles/laws/` に先例の原典がないことだけで「確かめられない扱い」と判断し、予備校の解答例と違う答えを採用した。択一式の記事（`note-articles/`）で同じ論点の出題と根拠の先例が確認済みのことがあるので、予備校の解答例と食い違ったら、答えを決める前に `note-articles/` を論点の語（今回は「屋根」「30％」）で検索する。問題文が材質をていねいに示していても、それが並べて書かせるわなのことがある
+
 **2026-09-30　H21 Q22（建物・会話形式）新規作成とダブルチェック**
 
 - 資料：添付は3ファイル。`c_h21pm_as22.pdf`（2ページ、画像のみ）が試験の答案用紙（その1・その2）、「第21問…第22.pdf」の名前のファイル（3ページ、画像のみ）が試験問題の本文（第22問、冊子27〜29ページ）、「H21 第22問…」の名前のファイル（全14ページ、画面の撮影画像）がアガルートの過去問集の該当部分（1〜3ページが問題の再掲、4〜5ページが白紙の答案用紙、6〜10ページが解説、11〜14ページが解答例）だった。欠けている資料はない。過去問集の再掲は日付を平成30年10月に置き換え、答案用紙の見出しを「主である建物又は附属建物」に変えていた（試験の答案用紙は「主たる建物又は附属建物」）ので、日付と欄の名前は本文と試験の答案用紙に合わせた（日付の対応表は照合スクリプトの中だけで使った）
-- 照合結果：登記の目的・添付書類5点・申請人・代理人・所在・家屋番号（記載不要）・種類・階数（3階建）・床面積（41.40・33.12・8.28）・原因（8月8日新築）・欄外の職名と氏名・問2の3例・各階平面図の辺と求積・建物図面の距離（3.10・1.00・1.00）はアガルートの解答例と一致。食い違いは構造の1か所で、アガルートは「木造かわらぶき3階建」（床面積に算入する部分の屋根面積の30%未満の屋根は表示しないという説明）、記事は「木造かわら・合金メッキ鋼板ぶき3階建」を採用した（準則第81条第2項は屋根の種類が異なれば並べて表示するとだけ定め、面積で省く規定は原典にない。調査結果7が材質をわざわざ合金メッキ鋼板〈準則第81条第1項の区分〉と言い換えている）。記事では予備校の答えを誤りと断定せず、「小さい屋根を書かない答え方を見かけることもある」とだけ触れた。照合できなかった項目は、アガルートが（略）とした各階平面図の作成者欄・建物図面の申請人欄（試験の答案用紙は空欄なので、「土地家屋調査士　家野二郎」「土野一郎」と書いた）
+- 照合結果：登記の目的・添付書類5点・申請人・代理人・所在・家屋番号（記載不要）・種類・階数（3階建）・床面積（41.40・33.12・8.28）・原因（8月8日新築）・欄外の職名と氏名・問2の3例・各階平面図の辺と求積・建物図面の距離（3.10・1.00・1.00）はアガルートの解答例と一致。食い違いは構造の1か所で、アガルートは「木造かわらぶき3階建」（床面積に算入する部分の屋根面積の30%未満の屋根は表示しないという説明）、記事は「木造かわら・合金メッキ鋼板ぶき3階建」を採用した（準則第81条第2項は屋根の種類が異なれば並べて表示するとだけ定め、面積で省く規定は原典にない。調査結果7が材質をわざわざ合金メッキ鋼板〈準則第81条第1項の区分〉と言い換えている）。記事では予備校の答えを誤りと断定せず、「小さい屋根を書かない答え方を見かけることもある」とだけ触れた。（→ 同日、ユーザー指示で解答例どおり「木造かわらぶき3階建」に改めた。上の記録）照合できなかった項目は、アガルートが（略）とした各階平面図の作成者欄・建物図面の申請人欄（試験の答案用紙は空欄なので、「土地家屋調査士　家野二郎」「土野一郎」と書いた）
 - 自分で見つけて直した誤り：1階の説明で下の寸法線の「5.46＋0.91」を南の辺のように書いていた（0.91は玄関の張り出しの幅と直した）。準則第53条を「第1項」と書いていた（項番号のない条文なので「準則第53条」に）。作図で、へこみの辺（1階・2階の0.91、2階の吹抜の1.82）の寸法が重心基準の「外側」で建物の内側に出た・線に触れた（基本フォームのへこみの辺のルールどおり `free_text` で置き直した）。建物図面の西の1.00が筆界と外壁の間（約1m）に収まらず線に触れた（筆界の外、3－3の側に置いた）。`fit` を文字を置いたあとに呼ぶと、配置の候補の評価が既定の表示範囲で行われ、はみ出しの警告が出る（図形を描く前に `fit` を呼ぶ形にした）。照合スクリプトで、藍子の誤答の「木造かわらぶき3階建」と冒頭の「アガルート」を禁止語にしてNGになった（誤答の文言は存在の確認、「アガルート」は1回だけの確認に直した）
 - 新しい気づき（執筆プロンプトの「建物固有の必須チェック論点」と本指示書3-2に追加）：天井の最高部が1.5メートル以上のロフトは特殊階ではなく階に数え、押入も含めて算入する（R5/Q22の1.5メートル未満の屋根裏部屋と対）、屋根が2種類なら並べて書き、区分の名前は規則第114条・準則第81条第1項の文言、材料が書かれていなければ通し柱などの記号で判断、道路後退線は筆界ではない、新築の表題登記の答案用紙の代理人欄・職印の枠（土地家屋調査士法施行規則第26条第1項）・図面の作成者欄と申請人欄、所有権証明書の具体例は請負人（会社）を事実から選ぶ
 - 表記チェック：`lint_note_article.py` は違反なし（座標値一覧表がなく、F-789SGの計算はない）。`verify_H21_dai22mon.py` はNG 0件。解説図8枚は重なりの自動検査0件・目視確認済み、申請書の完成形・問2・添削の3枚も目視確認済み

diff --git a/note-articles-Kijyutsu/prompt_note-kijutsu_tatemono_kyoutsu.md b/note-articles-Kijyutsu/prompt_note-kijutsu_tatemono_kyoutsu.md
@@ -174,7 +174,7 @@
 - **答案用紙の「たる」（2026-09-30追加、H20/Q22）**：古い年度の答案用紙は「敷地権の目的たる土地の表示」「主たる建物又は附属建物」。予備校の再現は「である」に直していることがあるので、試験の答案用紙で確かめる
 - **配置図の距離で地積を検算（2026-09-30追加、H20/Q22）**：座標値一覧表がなく、配置図の距離が外壁からで、平面図が壁心の年度は、壁厚の半分を足して外壁から外壁までの長さを出し、敷地（斜めの筆界なら台形）の面積が登記記録の地積と一致するかで距離の読み方を確かめる（H20/Q22は320.5532…→320.55。壁厚を落とすと315.2）
 - **天井の高いロフトは階に数える（2026-09-30追加、H21/Q22）**：名前が「ロフト」「小屋裏」でも、階数・床面積から除くのは天井の高さ1.5メートル未満の地階・屋階（特殊階）だけ（不動産登記事務取扱手続準則第81条第4項・第82条第1号本文）。断面図で天井の最高部が1.5メートル以上（H21/Q22は2.00）なら特殊階ではないので、その階を数え（2階建→3階建）、床面積は壁の中心線で囲まれた部分を全部測る。天井の低い押入なども、1室の一部が1.5メートル未満なだけなので算入する（同条第1号ただし書）。藍子の誤答は「ロフトは数えない（2階建）」と「押入や天井の低い部分を除く」の2段が自然。1.5メートル未満の屋根裏部屋を除く論点（R5/Q22）と対になる。構造の階数・各階平面図の枚数まで響くので、解く順番の早い段階で決める
-- **屋根が2種類（玄関の小屋根など）（2026-09-30追加、H21/Q22）**：屋根の種類が異なる部分があれば「かわら・合金メッキ鋼板ぶき」のように並べて書く（準則第81条第2項）。規則第114条の屋根の区分（かわらぶき・スレートぶき・亜鉛メッキ鋼板ぶき・草ぶき・陸屋根）にない屋根は、準則第81条第1項の区分（合金メッキ鋼板ぶき・銅板ぶきなど）で書く。問題文が商品名（ガルバリウム）の材質を「合金メッキ鋼板」と言い換えていれば、それが書く言葉の合図。亜鉛メッキ鋼板ぶきとの取り違えが藍子の誤答に自然。予備校の解答例に、面積の小さい屋根を省く扱い（H21/Q22のアガルート「屋根面積の30%未満の屋根は表示しない」）があっても、原典で確かめられない扱いは記事で断定せず、準則の文言で答えて作業報告に食い違いを書く
+- **屋根が2種類（玄関の小屋根など）（2026-09-30追加、H21/Q22。同日ユーザー指示で改訂）**：屋根の種類が2種類以上ある建物は、床面積に算入する部分の屋根面積のうち30％未満の種類の屋根は構造に表示しない（昭和63年3月24日民三第1826号。床面積に算入しない部分の屋根も表示の対象外。3種類以上なら種類数で割った平均以上の種類だけ）。択一式でも平成25年度第12問（10％ではなく30％）・平成29年度第16問（65％と35％なら両方）で出題された。並べて書く（「かわら・亜鉛メッキ鋼板ぶき」。準則第81条第2項）のは、どの種類も30％以上ある場合だけ。H21/Q22の玄関の小屋根（ガルバリウム＝合金メッキ鋼板）は0.91×1.82＝1.6562で1階41.405の約4％なので表示せず「木造かわらぶき3階建」（アガルートの解答例と一致）。問題文が材質を「合金メッキ鋼板」と言い換えていても、それは並べて書かせるわなのことがあるので、割合を先に確かめる。区分名は、規則第114条（かわらぶき・スレートぶき・亜鉛メッキ鋼板ぶき・草ぶき・陸屋根）にない屋根は準則第81条第1項の区分（合金メッキ鋼板ぶき・銅板ぶきなど）で書く。藍子の誤答は「2種類あるから並べる」が自然。最初はこの先例を原典で確かめられないとして準則の文言だけで並べて書き、ユーザーの指摘で改めた（改善記録）
 - **構成材料が書かれていない年度（2026-09-30追加、H21/Q22）**：問題文・調査結果に木造・鉄骨造などの材料が書かれていなければ、平面図の記号（通し柱など）から判断する。通し柱は木造の軸組の柱なので木造
 - **道路後退線と筆界（2026-09-30追加、H21/Q22）**：道路の中心線から2メートル下がった道路後退線は、後退部分を分筆しない限り敷地の中の線で、筆界ではない。建物図面の敷地は筆界（道路境界線）で描き、距離は道路境界線から測る（H21/Q22は1.10＋2.00＝3.10。後退線からの2.00を写すのが藍子の誤答に自然）。道路の幅の半分と後退の幅から、後退線が筆界から何メートル内側かを会話で確かめる
 - **新築の表題登記の答案用紙の空欄（2026-09-30追加、H21/Q22）**：代理人の欄が（略）でなければ代理人の住所・氏名を書き、表の下に職印の枠があれば「土地家屋調査士　氏名」を書く（土地家屋調査士法施行規則第26条第1項：書類の末尾又は欄外に記名し職印）。各階平面図の作成者欄・建物図面の申請人欄も（略）でなければ書く。不動産番号・家屋番号は登記所が付けるので空欄

diff --git a/CLAUDE.md b/CLAUDE.md
@@ -223,7 +223,7 @@ R2の答案用紙は申請の日付と提出先の行が代理人の下にあり
 平成21年度分（`H21/Q22/`）はアガルートの解答例・答案用紙・試験問題本文と照合済み（2026-09-30。添付は試験問題本文〈冊子27〜29ページ、画像のみ3ページ〉・試験の答案用紙〈（その1）（その2）の2ページ〉・アガルートの過去問集の該当部分〈全14ページ、画面の撮影画像。問題の再掲・白紙の答案用紙・解説・解答例〉の3つで、欠けている資料はなかった。過去問集の再掲は日付を平成30年10月に置き換え、答案用紙の見出しを「主である建物」に変えていたので、試験問題の本文〈平成21年8月8日工事完了〉と試験の答案用紙〈平成21年8月23日申請、「主たる建物又は附属建物」〉どおりに書いた）。
 `verify_H21_dai22mon.py`で記事と付属プロンプト・生成画像（登記申請書・問2・添削・見出し画像・解説図の頂点座標、画像挿入マーカー11か所とPNG11枚の対応、HTMLの記入内容、note向けの体裁）の一致を確認しており（NG 0件）、`H21/Q22/zu/`に解説図8枚（`draw_H21_dai22mon_kaisetsuzu.py`。重なりの自動検査0件・目視確認済み）と、登記申請書の完成形・問2の完成形・添削（3コマを縦に積む）のPNG・HTML（`make_H21_dai22mon_shinseisho_gazou.py`）がある。note見出し画像はプロンプト（`prompt_H21_dai22mon_miidashi_gazou.md`）まで。
 本問は、土野一郎が自分の3番4に新築した自宅の建物表題登記で、断面図の天井の最高部が2.00あるロフト（2階のウォークインクローゼットの上の屋階、固定式ハシゴ階段）を、名前につられず特殊階ではないとして3階に数え（不動産登記事務取扱手続準則第81条第4項・第82条第1号）、押入を含めた4.55×1.82＝8.28を床面積に入れる点（押入を除く6.62は誤り。同号ただし書）、1階は北の帯6.37×1.82と南の本体5.46×5.46で41.405を切り捨てて41.40（四捨五入の41.41ではない）、2階は北東の吹抜（準則第82条第8号）と南のベランダを除いて33.12、
-構成材料が書かれていないので通し柱の記号から木造、大屋根の洋かわらと玄関の小屋根のガルバリウム（材質は合金メッキ鋼板）で屋根が2種類なので「木造かわら・合金メッキ鋼板ぶき3階建」（準則第81条第1項・第2項。アガルートの解答例は、床面積に算入する部分の屋根面積の30%未満の屋根は表示しないとして「木造かわらぶき3階建」で、ここだけ食い違う。記事では予備校の答えを誤りと断定せず、原典で確かめられる準則の文言と問題文の材質の指定で答えた）、
+構成材料が書かれていないので通し柱の記号から木造、大屋根の洋かわらと玄関の小屋根のガルバリウム（材質は合金メッキ鋼板）で屋根が2種類あるが、床面積に算入する部分の屋根面積の30％未満の種類の屋根は表示しない（昭和63年3月24日民三第1826号。択一式の平成25年度第12問・平成29年度第16問で出題）ので、約4％（0.91×1.82＝1.6562 ÷ 41.405）の小屋根は書かず「木造かわらぶき3階建」（解答例と一致。当初は準則第81条第2項の文言だけで並べて書いていたが、ユーザー指示で改めた。予備校の解答例と食い違ったら択一式の記事を論点の語で検索する教訓をチェックリストの改善記録と依頼文に残した）、
 建物図面の北の距離は、分筆しない道路後退線（道路の中心線から2.00、道路境界線から1.10内側）からの2.00ではなく、筆界の道路境界線から1.10＋2.00＝3.10、西は1.00を2か所、所在は3番地4だけ（東の余り2.45、南の余り2.54で確かめた）、添付書類は建物図面・各階平面図・所有権証明書・住所証明書・代理権限証書、登録免許税の欄はなく非課税、原因は工事完了の「平成21年8月8日新築」、答案用紙の代理人の欄と表の下の職印の枠（土地家屋調査士法施行規則第26条第1項）・各階平面図の作成者欄・建物図面の申請人欄に記入する点（アガルートの再現は（略））、
 問2の所有権証明書の例（準則第87条第1項）は、確認済証・検査済証・株式会社建倉工務店の工事完了引渡証明書（同社の印鑑証明書付き）で、附帯設備の丸田電気・中山設備や社員の建倉進の証明書ではない点が主な論点。
 平成22年度分（`H22/Q22/`）はアガルートの解答例・答案用紙・試験問題本文と照合済み（2026-09-30。添付は試験問題本文〈冊子27〜32ページ、画像のみ6ページ〉・試験の答案用紙〈（その1）〜（その3）〉・アガルートの過去問集の該当部分〈全20ページ、画面の撮影画像。問題の再掲・白紙の答案用紙・解説・解答例〉の3つで、欠けている資料はなかった。過去問集は日付〈工事完了・申請・登記記録の受付〉と答案用紙の欄の名前〈添付情報→添付書類など〉を書き換えた改題版だったので、試験問題本文と試験の答案用紙どおりに書いた）。

diff --git a/note-articles-Kijyutsu/H21/Q22/prompt_H21_dai22mon_toukishinseisho_machigai.md b/note-articles-Kijyutsu/H21/Q22/prompt_H21_dai22mon_toukishinseisho_machigai.md
@@ -1,6 +1,6 @@
 # 画像作成プロンプト：平成21年度 第22問（建物）登記申請書「よくある間違い」添削画像
 
-note記事「【土地家屋調査士受験生向け】平成21年度問題22（建物）〜天井2.00mのロフトは3階に数える〜」第4章、藍子が構造を「木造かわらぶき3階建」と答え（誤答の見本には第3章の最初の誤り〈2階建・41.41〉も入れる）、トリ先生が玄関の小屋根を指摘して、藍子が「木造かわら・合金メッキ鋼板ぶき3階建」に直した直後に挿入する画像。**完成形（`prompt_H21_dai22mon_toukishinseisho_gazou.md`の記入行1）だけを取り出し、誤答→添削→正解の過程を1枚で見せる。**
+note記事「【土地家屋調査士受験生向け】平成21年度問題22（建物）〜天井2.00mのロフトは3階に数える〜」第4章、藍子が構造を「木造かわら・合金メッキ鋼板ぶき3階建」と答え（誤答の見本には第3章の最初の誤り〈2階建・41.41〉も入れる）、トリ先生が「床面積に算入する部分の屋根面積の30％未満の種類の屋根は表示しない（昭和63年3月24日民三第1826号）」と指摘して、藍子が玄関の小屋根の割合（約4％）を確かめ「木造かわらぶき3階建」に直した直後に挿入する画像。**完成形（`prompt_H21_dai22mon_toukishinseisho_gazou.md`の記入行1）だけを取り出し、誤答→添削→正解の過程を1枚で見せる。**
 
 ※画像生成AIは文字中心の画像や添削記号の正確な配置に向きません。完成形と同じくHTML＋ヘッドレスブラウザでPNGに書き出す方式です。
 
@@ -20,7 +20,7 @@ note記事「【土地家屋調査士受験生向け】平成21年度問題22（
 
 - 主たる建物又は附属建物：空欄
 - ①種類：「居宅」
-- ②構造：「木造かわらぶき２階建」（玄関の小屋根の合金メッキ鋼板ぶきが抜け、ロフトを階に数えていない）
+- ②構造：「木造かわら・合金メッキ鋼板ぶき２階建」（30％未満の玄関の小屋根まで並べて書き、ロフトを階に数えていない）
 - ③床面積：「1階　41｜41」（四捨五入の誤り）「2階　33｜12」の2行だけ（3階がない）
 - 登記原因及びその日付：「平成21年8月8日新築」
 
@@ -28,23 +28,23 @@ note記事「【土地家屋調査士受験生向け】平成21年度問題22（
 
 ①と同じ断片に、赤ペンで次の添削を加える。
 
-- ②構造の「かわら」の後ろに赤字で「・合金メッキ鋼板」を書き足し、「２」に赤の取り消し線、そばに赤字で「３」
+- ②構造の「・合金メッキ鋼板」に赤の取り消し線（改行して「ぶき」に続ける）、「２」に赤の取り消し線、そばに赤字で「３」
 - ③床面積の1階の小数部「41」に赤の取り消し線、そばに赤字で「40」
 - ③床面積の3行目に赤字で「3階　8｜28」を書き足す
-- 表の下に、赤字の吹き出しで「玄関の小屋根は合金メッキ鋼板ぶき（調査結果7）。屋根が2種類なら並べて書く！」「ロフトは天井の最高部2.00で1.5m以上 → 3階（4.55×1.82＝8.28）」「41.405は切り捨てて41.40（四捨五入しない）」の3行
+- 表の下に、赤字の吹き出しで「玄関の小屋根は0.91×1.82＝1.6562で、1階41.405の約4％。」「床面積に算入する部分の屋根面積の30％未満の種類の屋根は表示しない！」「ロフトは天井の最高部2.00で1.5m以上 → 3階（4.55×1.82＝8.28）」「41.405は切り捨てて41.40（四捨五入しない）」の4行
 
 ## ③正解（下のコマ）
 
 正しい内容を1行で描く（記入・濃い青。周りに薄い緑の枠、右上に緑の丸で囲んだチェック印をSVGで）。
 
-- 主たる建物又は附属建物：空欄／①種類「居宅」／②構造「木造かわら・合金メッキ鋼板ぶき３階建」／③床面積「1階　41｜40」「2階　33｜12」「3階　8｜28」／登記原因及びその日付「平成21年8月8日新築」
+- 主たる建物又は附属建物：空欄／①種類「居宅」／②構造「木造かわらぶき３階建」／③床面積「1階　41｜40」「2階　33｜12」「3階　8｜28」／登記原因及びその日付「平成21年8月8日新築」
 
 ## 仕上がりの確認項目
 
-- ①が「屋根1種類・2階建・41.41・3階なし」の誤答になっているか
-- ②の添削で、屋根の2種類・3階・切り捨ての3点がわかるか
+- ①が「屋根2種類を並べる・2階建・41.41・3階なし」の誤答になっているか
+- ②の添削で、30％未満の屋根は表示しない・3階・切り捨ての3点がわかるか
 - ③が完成形の記入行1と一字一句同じか
-- 画像の最下部に小さく「平成21年度 第22問｜ロフトは3階、屋根は2種類とも書く」とキャプションを入れる
+- 画像の最下部に小さく「平成21年度 第22問｜ロフトは3階、30％未満の小屋根は書かない」とキャプションを入れる
 
 ## 生成済み（2026-09-30）
 
